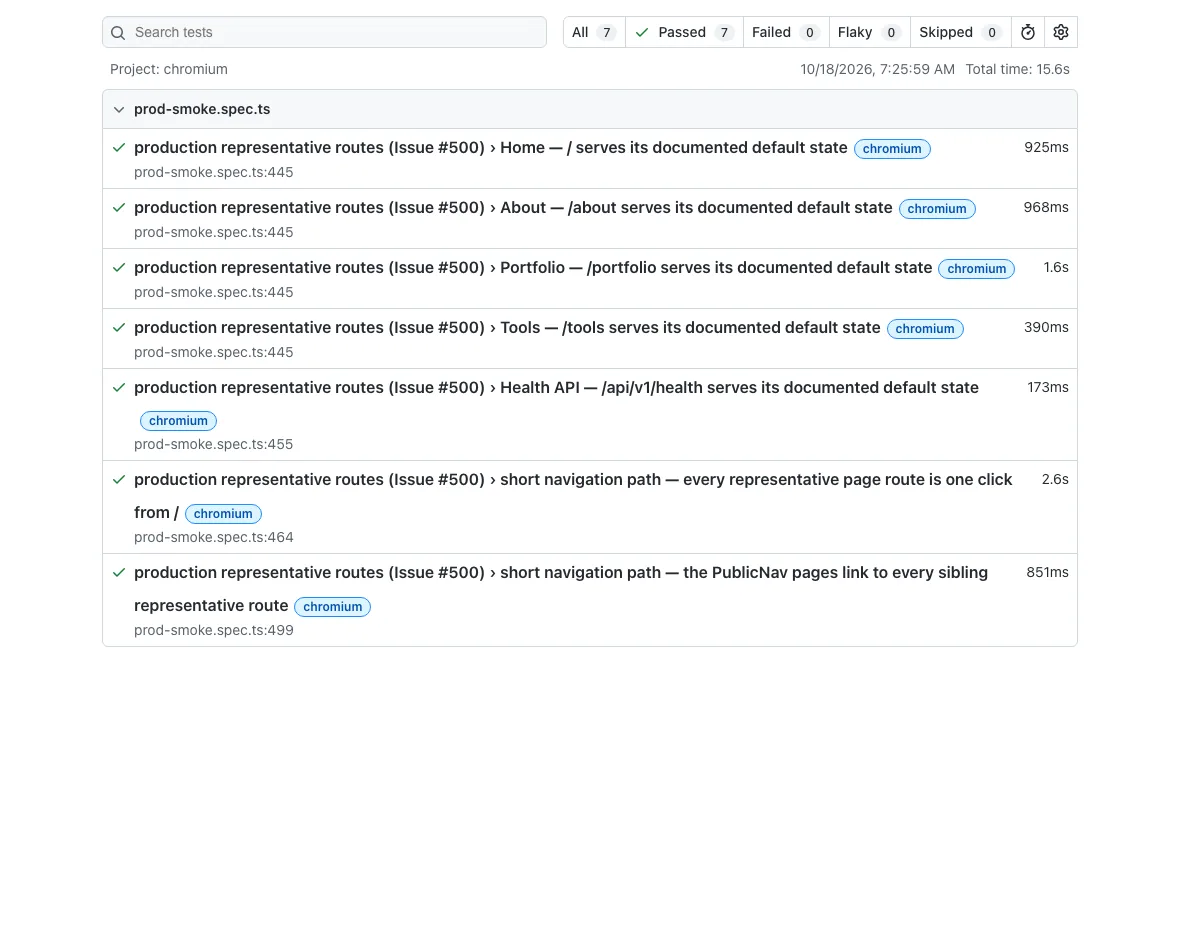
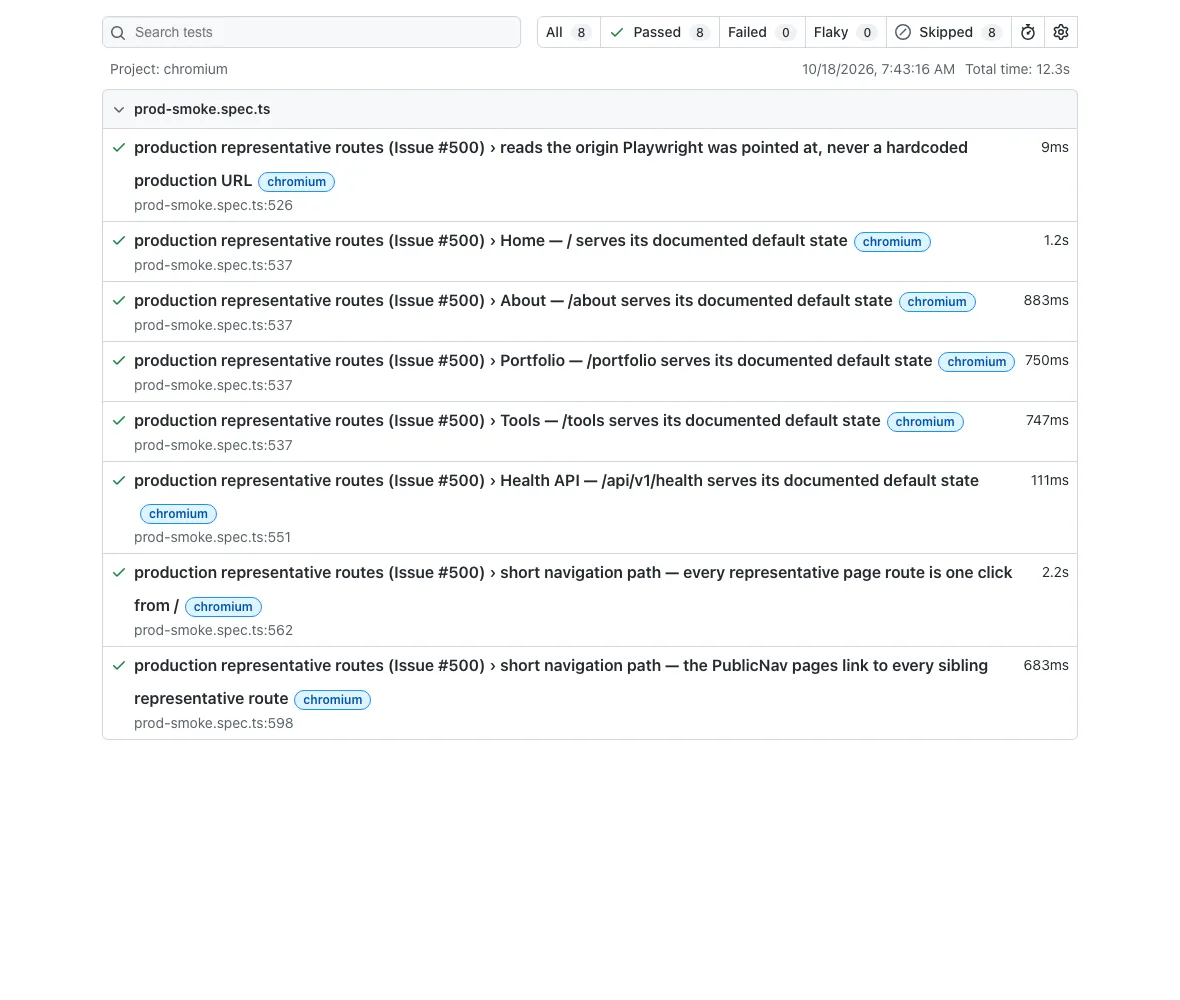
test(smoke): make the offline rehearsal provably offline and recapture the artefact (#500)
Resolving the adapter origin from process.env.PLAYWRIGHT_BASE_URL was
wrong: with that variable unset, playwright.config.ts falls back to
http://127.0.0.1:3000, so the spec silently kept navigating to production
while the run was framed as a local rehearsal. Resolve it from the
baseURL fixture instead (Playwright's own configuration), and arm the
Issue #43 canonical-origin group only when PLAYWRIGHT_BASE_URL explicitly
names production — that group hardcodes the canonical origin and contains
the file's one deliberate write.

Add a test that fails if a non-production run resolves the canonical
origin, give formatAuditReport the observed origin so a rehearsal never
prints a production URL it never touched, and give the rehearsal a
non-credential placeholder consumer API key: the / default state asserts
the reactions widget is configured, which locally only happens when the
Worker sees a non-empty key.

Re-ran the rehearsal against the local vite preview build: 8 passed /
8 skipped (the Issue #43 group), and 16 skipped under
PROD_SMOKE_PHASE=transition.

diff --git a/e2e/prod-smoke.spec.ts b/e2e/prod-smoke.spec.ts
@@ -45,10 +45,11 @@ import type { RepresentativeRoute, RouteObservation } from '../scripts/prod-smok
  *
  * Origin scoping: the Issue #43 describe below asserts the canonical
  * PRODUCTION origin (HTTPS, `BETTER_AUTH_URL`, the `#106` login gate), so
- * it only runs when Playwright is pointed at production. The
- * representative-route adapter instead follows `PLAYWRIGHT_BASE_URL`, so
- * `pnpm run e2e:prod:local` can exercise the same contract against a
- * local build without resolving `https://rebuildup.dev` at all.
+ * it only runs when Playwright is EXPLICITLY pointed at production. The
+ * representative-route adapter instead navigates to whatever origin the
+ * `baseURL` fixture resolves, so `pnpm run e2e:prod:local` can exercise
+ * the same contract against a local build without ever resolving
+ * `https://rebuildup.dev`.
  *
  * The smoke verifies the documented Issue #43 acceptance criteria
  * against the live deployment:
@@ -74,23 +75,33 @@ import type { RepresentativeRoute, RouteObservation } from '../scripts/prod-smok
 const CANONICAL_ORIGIN = CANONICAL_PRODUCTION_ORIGIN;
 
 /**
- * Origin the representative-route adapter talks to.
+ * Whether this run was EXPLICITLY pointed at the canonical production
+ * origin.
  *
  * `pnpm run e2e:prod` / `pnpm run e2e:prod:transition` set
- * `PLAYWRIGHT_BASE_URL=https://rebuildup.dev`, so every production run
- * is unchanged. When Playwright is explicitly pointed at a local build
- * (`pnpm run e2e:prod:local`, i.e. base URL `http://127.0.0.1:3000`), the
- * adapter follows THAT origin instead — which is what makes the Issue
- * #500 contract reproducible offline, and what lets the verification
- * screenshot be captured without reading production at all. With
- * `PLAYWRIGHT_BASE_URL` unset the adapter falls back to the canonical
- * production origin, so an ad-hoc `playwright test e2e/prod-smoke.spec.ts`
- * keeps its previous meaning.
+ * `PLAYWRIGHT_BASE_URL=https://rebuildup.dev`, and that is the only thing
+ * that arms the Issue #43 production group below. Deliberately
+ * fail-safe: an UNSET `PLAYWRIGHT_BASE_URL` does not mean "production",
+ * it means `playwright.config.ts` fell back to `http://127.0.0.1:3000`.
+ * Treating unset as production would let a local rehearsal keep hitting
+ * production — including the one deliberate write in this file.
  */
-const SMOKE_ORIGIN = (process.env.PLAYWRIGHT_BASE_URL ?? CANONICAL_ORIGIN).replace(/\/+$/, '');
+const CONFIGURED_BASE_URL = process.env.PLAYWRIGHT_BASE_URL?.replace(/\/+$/, '');
+const IS_CANONICAL_RUN = CONFIGURED_BASE_URL === CANONICAL_ORIGIN;
 
-/** True when this run really is pointed at the canonical production origin. */
-const IS_CANONICAL_RUN = SMOKE_ORIGIN === CANONICAL_ORIGIN;
+/**
+ * Origin the representative-route adapter talks to.
+ *
+ * Resolved from the `baseURL` fixture — i.e. from Playwright's own
+ * configuration, the single place where `PLAYWRIGHT_BASE_URL` and the
+ * localhost default are defined. Production runs (`pnpm run e2e:prod`,
+ * `pnpm run e2e:prod:transition`) therefore keep hitting
+ * `https://rebuildup.dev`, and `pnpm run e2e:prod:local` keeps everything
+ * on `http://127.0.0.1:3000`.
+ */
+function smokeOrigin(baseURL: string | undefined): string {
+	return (baseURL ?? CANONICAL_ORIGIN).replace(/\/+$/, '');
+}
 
 const PROD_SMOKE_PHASE = process.env.PROD_SMOKE_PHASE ?? 'versioned';
 if (PROD_SMOKE_PHASE !== 'transition' && PROD_SMOKE_PHASE !== 'versioned') {
@@ -307,12 +318,12 @@ test.describe('production smoke (Issue #43 / ADR-0014)', () => {
  * also lives in the Issue #43 describe above, which only runs against the
  * canonical production origin.
  *
- * Outbound traffic: every navigation below goes through `SMOKE_ORIGIN`,
- * i.e. the canonical production origin for `pnpm run e2e:prod` /
- * `pnpm run e2e:prod:transition`, or whatever `PLAYWRIGHT_BASE_URL` says
- * for `pnpm run e2e:prod:local`. No navigation in this describe is
- * hardcoded to production, which is what keeps an offline verification
- * run from ever resolving the production hostname.
+ * Outbound traffic: every navigation below goes through the `baseURL`
+ * Playwright was configured with, i.e. the canonical production origin for
+ * `pnpm run e2e:prod` / `pnpm run e2e:prod:transition` and
+ * `http://127.0.0.1:3000` for `pnpm run e2e:prod:local`. No navigation in
+ * this describe is hardcoded to production, which is what keeps an
+ * offline verification run from ever resolving the production hostname.
  * ------------------------------------------------------------------------ */
 
 const REPO_ROOT = resolve(dirname(fileURLToPath(import.meta.url)), '..');
@@ -432,10 +443,11 @@ async function computePageProbes(
  */
 async function observePageRoute(
 	route: RepresentativeRoute,
+	origin: string,
 	page: Page,
 	toolSlugs: ReadonlyArray<string>,
 ): Promise<RouteObservation> {
-	const response = await page.goto(`${SMOKE_ORIGIN}${route.path}`, {
+	const response = await page.goto(`${origin}${route.path}`, {
 		waitUntil: 'domcontentloaded',
 	});
 	const canonical = page.locator('link[rel="canonical"]').first();
@@ -467,9 +479,10 @@ async function observePageRoute(
  */
 async function observeApiRoute(
 	route: RepresentativeRoute,
+	origin: string,
 	request: APIRequestContext,
 ): Promise<RouteObservation> {
-	const response = await request.get(`${SMOKE_ORIGIN}${route.path}`);
+	const response = await request.get(`${origin}${route.path}`);
 	const body = await response.text();
 	let json: Record<string, unknown> | null = null;
 	try {
@@ -510,33 +523,51 @@ test.describe('production representative routes (Issue #500)', () => {
 		PROD_SMOKE_PHASE === 'transition',
 		'Smoke #1 runs PRE merge/deploy, so production still serves the previous `main` build. This registry is release-branch data (Tool Registry row set, home/about section counts, declared <h1> text), and the runbook defers every non-`main`-compatible assertion to Smoke #2. See docs/runbook/cloudflare-workers-builds.md "Representative route coverage (Issue #500)".',
 	);
+	test('reads the origin Playwright was pointed at, never a hardcoded production URL', async ({
+		baseURL,
+	}) => {
+		test.skip(IS_CANONICAL_RUN, 'this run IS pointed at the canonical production origin');
+		expect(
+			smokeOrigin(baseURL),
+			'a run that is not pointed at production must not resolve the canonical production origin — that would turn an offline rehearsal into a production read, and would make the Issue #500 verification artefact claim something this code path cannot do',
+		).not.toBe(CANONICAL_ORIGIN);
+	});
+
 	for (const route of REPRESENTATIVE_PAGE_ROUTES) {
-		test(`${route.label} — ${route.path} serves its documented default state`, async ({ page }) => {
-			const observation = await observePageRoute(route, page, readToolManifestSlugs());
+		test(`${route.label} — ${route.path} serves its documented default state`, async ({
+			baseURL,
+			page,
+		}) => {
+			const origin = smokeOrigin(baseURL);
+			const observation = await observePageRoute(route, origin, page, readToolManifestSlugs());
 			// Assert the problem LIST, not the first problem: a broken
 			// deployment should report everything that is wrong in one go.
 			const problems = auditRoute(route, observation);
-			expect(problems, formatAuditReport(route, problems)).toEqual([]);
+			expect(problems, formatAuditReport(route, problems, origin)).toEqual([]);
 		});
 	}
 
 	for (const route of REPRESENTATIVE_API_ROUTES) {
 		test(`${route.label} — ${route.path} serves its documented default state`, async ({
+			baseURL,
 			request,
 		}) => {
-			const observation = await observeApiRoute(route, request);
+			const origin = smokeOrigin(baseURL);
+			const observation = await observeApiRoute(route, origin, request);
 			const problems = auditRoute(route, observation);
-			expect(problems, formatAuditReport(route, problems)).toEqual([]);
+			expect(problems, formatAuditReport(route, problems, origin)).toEqual([]);
 		});
 	}
 
 	test('short navigation path — every representative page route is one click from /', async ({
+		baseURL,
 		page,
 	}) => {
+		const origin = smokeOrigin(baseURL);
 		for (const entry of ONE_CLICK_ENTRIES) {
 			// Re-enter the source surface each round: the previous round
 			// followed its link, so the page is no longer on `entry.from`.
-			await page.goto(`${SMOKE_ORIGIN}${entry.from}`, { waitUntil: 'domcontentloaded' });
+			await page.goto(`${origin}${entry.from}`, { waitUntil: 'domcontentloaded' });
 			const link = page.locator(entry.selector).first();
 			await expect(
 				link,
@@ -565,10 +596,12 @@ test.describe('production representative routes (Issue #500)', () => {
 	});
 
 	test('short navigation path — the PublicNav pages link to every sibling representative route', async ({
+		baseURL,
 		page,
 	}) => {
+		const origin = smokeOrigin(baseURL);
 		for (const from of CHROME_NAV_ROUTES) {
-			await page.goto(`${SMOKE_ORIGIN}${from}`, { waitUntil: 'domcontentloaded' });
+			await page.goto(`${origin}${from}`, { waitUntil: 'domcontentloaded' });
 			const nav = page.locator('nav[aria-label="Public"]');
 			await expect(
 				nav,

diff --git a/playwright.config.ts b/playwright.config.ts
@@ -96,15 +96,15 @@ export default defineConfig({
 	// ONE documented exception: `pnpm run e2e:prod:local`, which sets
 	// `E2E_LOCAL_PROD_SMOKE=1` and runs the production spec file
 	// against the LOCAL preview build. It is safe precisely because
-	// `e2e/prod-smoke.spec.ts` resolves its origin from
-	// `PLAYWRIGHT_BASE_URL`: without
-	// `PLAYWRIGHT_BASE_URL=https://…` in the environment, nothing in
-	// that run can resolve `https://rebuildup.dev`, and the Issue #43
-	// canonical-origin group (including the anonymous reaction
-	// mutation, the one write in the file) skips itself. It exists so
-	// the Issue #500 representative-route contract is reproducible
-	// offline and its verification screenshot can be captured without
-	// reading production.
+	// `e2e/prod-smoke.spec.ts` navigates to the `baseURL` this config
+	// resolves (here: `http://127.0.0.1:3000`) instead of a hardcoded
+	// production origin, and because its Issue #43 group — which does
+	// hardcode the canonical origin, including the one deliberate write
+	// in the file, the anonymous reaction mutation — disarms itself
+	// unless `PLAYWRIGHT_BASE_URL` EXPLICITLY names production. It
+	// exists so the Issue #500 representative-route contract is
+	// reproducible offline and its verification screenshot can be
+	// captured without reading production.
 	// `e2e/prod-portfolio.spec.ts` stays ignored either way: it is the
 	// separate G15 post-publication contract and needs published entries
 	// plus production media.

diff --git a/docs/runbook/cloudflare-workers-builds.md b/docs/runbook/cloudflare-workers-builds.md
@@ -385,14 +385,18 @@ Offline rehearsal
 -----------------
 
 `pnpm run e2e:prod:local` runs the SAME spec file against the local
-`vite preview` build instead of production. The adapter resolves its
-origin from `PLAYWRIGHT_BASE_URL`, so with no production base URL in the
-environment nothing in that run resolves `https://rebuildup.dev`, and the
-Issue #43 canonical-origin group (including the one deliberate write, the
-anonymous reaction mutation) skips itself. Use it to rehearse the
-representative-route contract, and to capture a verification artefact,
-without reading production at all. It is a rehearsal, not a substitute:
-the deployed-`main` measurement still only exists in Smoke #2.
+`vite preview` build instead of production. The representative-route
+adapter navigates to the `baseURL` Playwright resolved — `pnpm run
+e2e:prod:local` deliberately leaves `PLAYWRIGHT_BASE_URL` unset, so that
+is `http://127.0.0.1:3000` — and the Issue #43 canonical-origin group,
+which does hardcode the canonical origin (including the one deliberate
+write, the anonymous reaction mutation), disarms itself unless
+`PLAYWRIGHT_BASE_URL` explicitly names production. A test in the
+representative group asserts that a non-production run does not resolve
+the canonical origin. Use the command to rehearse the contract, and to
+capture a verification artefact, without reading production at all. It is
+a rehearsal, not a substitute: the deployed-`main` measurement still only
+exists in Smoke #2.
 
 Read-only boundary
 ------------------

diff --git a/docs/development.md b/docs/development.md
@@ -297,10 +297,11 @@ exist:
 - `pnpm run e2e:prod:local` runs the same spec file against the LOCAL
   preview build (`http://127.0.0.1:3000`), so the Issue #500
   representative-route contract is reproducible offline. It changes no
-  origin: the adapter reads `PLAYWRIGHT_BASE_URL`, so nothing in that
-  run resolves `https://rebuildup.dev`, and the Issue #43 canonical-origin
-  group (including the one deliberate write, the anonymous reaction
-  mutation) skips itself.
+  origin: the representative-route adapter navigates to the `baseURL`
+  Playwright resolved, and the Issue #43 canonical-origin group (which
+  hardcodes the canonical origin, including the one deliberate write, the
+  anonymous reaction mutation) skips itself unless `PLAYWRIGHT_BASE_URL`
+  explicitly names production.
 
 ```bash
 pnpm run e2e:install     # one-time: chromium browser + system deps
